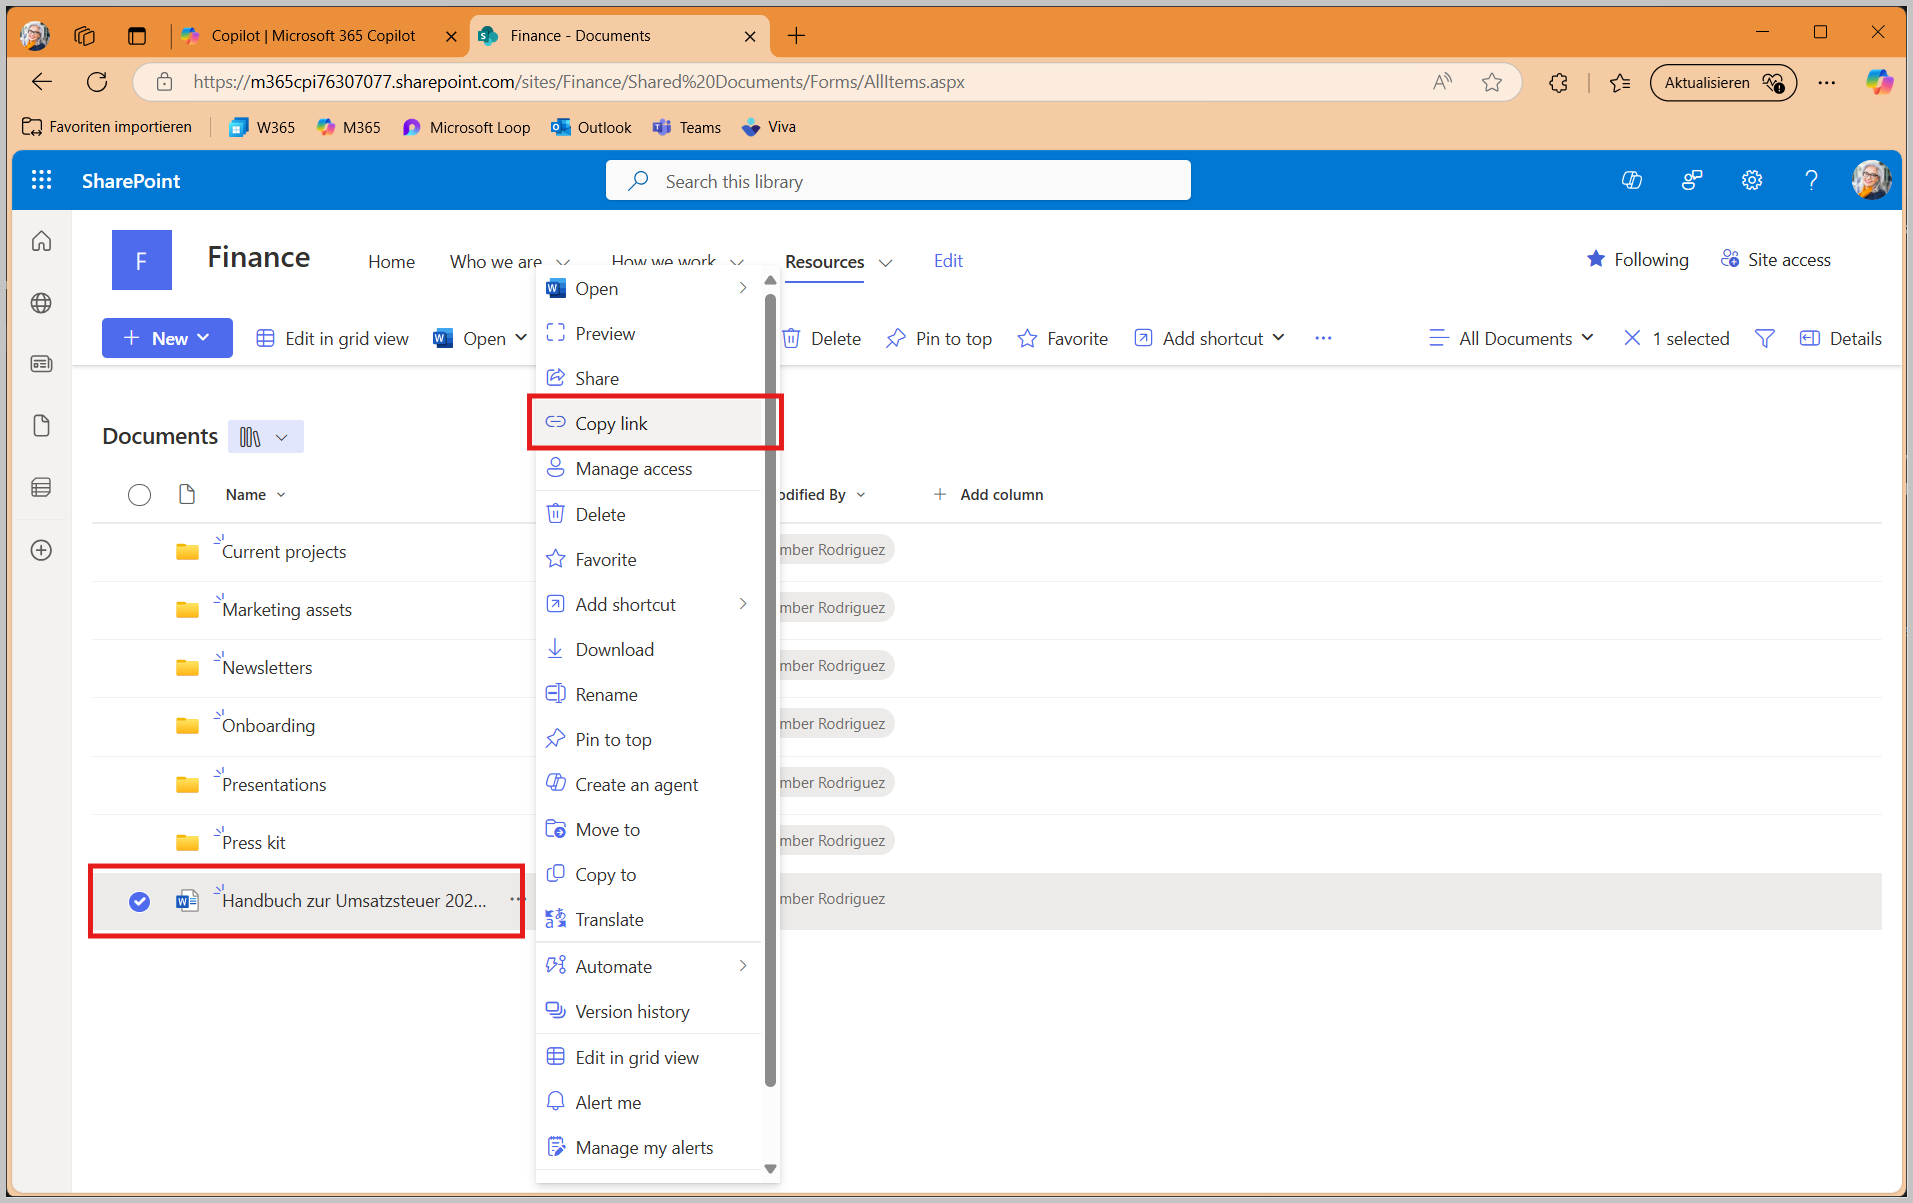
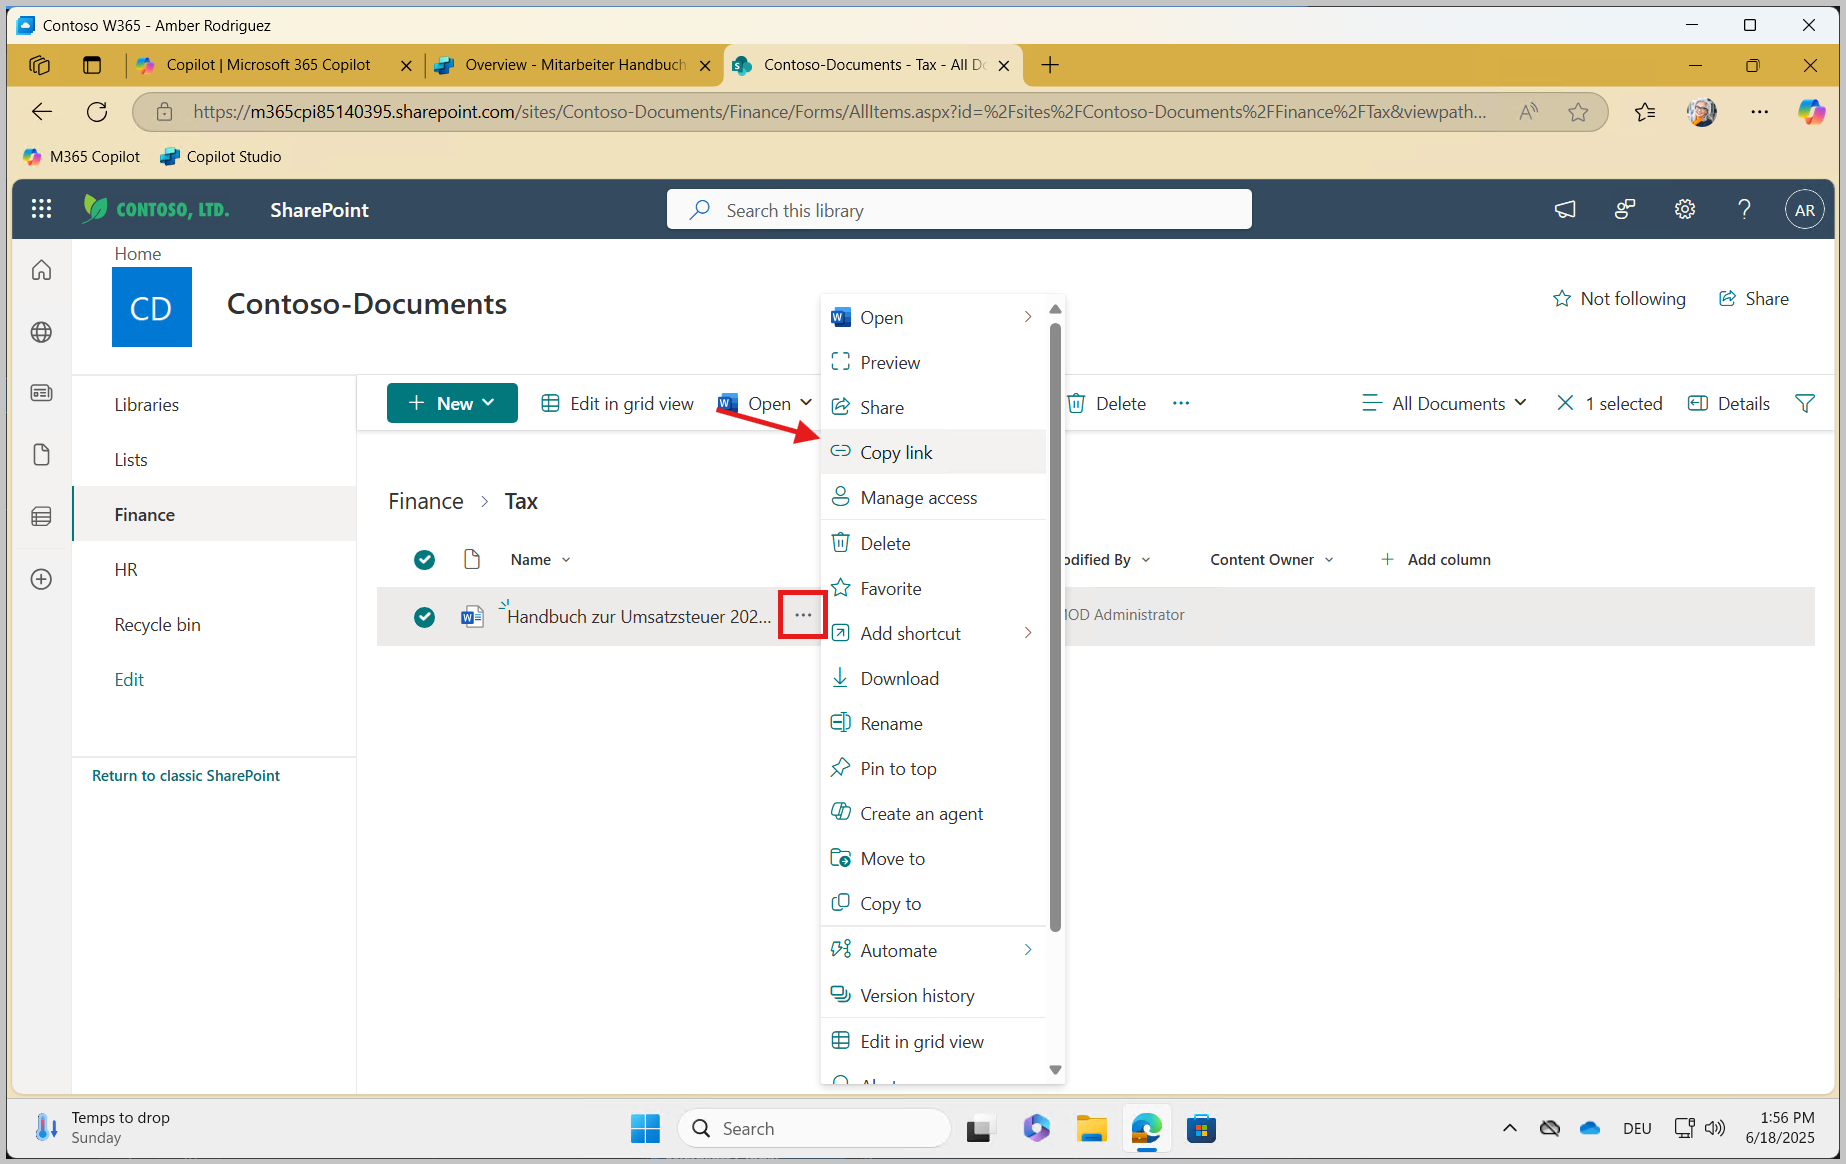
Update

diff --git a/UseCaseLibrary/Umsatzsteuer-Agent/README.md b/UseCaseLibrary/Umsatzsteuer-Agent/README.md
@@ -6,6 +6,8 @@ In the next exercise you will learn to add specific knowledge. The Agents will b
 
 ### Agent 1:
 
+This Agent will be configured using the M365 Copilot Agent Builder. Please refer to the previous exercises for the basic setup steps.
+
 **Name:** Finance Advisor - Umsatzsteuer
 
 **Description:** I'm here to help with the German Umsatzsteuer.
@@ -18,7 +20,7 @@ Create a new agent
 
 <img src="https://github.com/AndreasExner/AgentsHackathon/blob/main/UseCaseLibrary/Umsatzsteuer-Agent/142541.png?raw=true" alt="image" width="75%" height="auto">
 
-Navigate to https://m365cpi76307077.sharepoint.com/sites/Finance/Shared%20Documents/Forms/AllItems.aspx and copy the link to "Handbuch zur Umsatzsteuer 2025.docx"
+Navigate to https://m365cpi85140395.sharepoint.com/sites/Contoso-Documents/default.aspx -> Finance -> TAX and copy the link to "Handbuch zur Umsatzsteuer 2025.docx"
 
 <img src="https://github.com/AndreasExner/AgentsHackathon/blob/main/UseCaseLibrary/Umsatzsteuer-Agent/142256.png?raw=true" alt="image" width="75%" height="auto">
 
@@ -29,3 +31,5 @@ Add the knowledge to the agent:
 Optional: add starter prompts:
 
 <img src="https://github.com/AndreasExner/AgentsHackathon/blob/main/UseCaseLibrary/Umsatzsteuer-Agent/141524.png?raw=true" alt="image" width="75%" height="auto">
+
+Again, the instructions are very rudimentary. Feel free to optimize them.

diff --git a/UseCaseLibrary/Mitarbeiter-Handbuch/README.md b/UseCaseLibrary/Mitarbeiter-Handbuch/README.md
@@ -6,7 +6,9 @@ In the next exercise you will learn to add specific knowledge. The Agents will b
 
 ### Agent 2:
 
-This Agent can be created in Copilot Studio (custom engine Agent) for further use in following exercises.
+This Agent can be configured using the M365 Copilot Agent Builder. Please refer to the previous exercises for the basic setup steps.
+
+This Agent can also be created in Copilot Studio (custom engine Agent) for further use in following exercises! 
 
 **Name:** Mitarbeiter Handbuch
 
@@ -35,10 +37,12 @@ Du bist ein Assistent zur Beantwortung von Mitarbeiter Fragen bei einem großen,
 
 -- Kommuniziert auf eine einfache Weise, vermeidet Fachjargon, um Informationen für alle Mitarbeiter verständlich zu machen, unabhängig von ihrem Hintergrund oder ihrer Rolle.
 
+---
+For M365 Copilot Agent Builder, please navigate to: [https://www.microsoft365.com/chat](https://www.microsoft365.com/chat). Start with a new agent, please refer to the previous exercises for the basic setup steps. 
+---
 
-Navigate to [https://copilotstudio.microsoft.com/](https://copilotstudio.microsoft.com/).
+For Copilot Studio, please navigate to [https://copilotstudio.microsoft.com/](https://copilotstudio.microsoft.com/).
+---
 
-Create a new agent
 
 
-https://m365cpi85140395.sharepoint.com/:f:/s/HR/EoQVObHeBFFHt6o1HTdXPO0BFxla2c3scWQtCWZmmF4vig?e=WYKHIv

diff --git a/UseCaseLibrary/NameIt-Agent/README.md b/UseCaseLibrary/NameIt-Agent/README.md
@@ -4,6 +4,8 @@
 
 Let's create the first agent. Name It! will help you finding names for things in creative ways. Be sure to give it at least three skills (e.g. naming in general, a project, a top secret agent)
 
+This Agent will be configured using the M365 Copilot Agent Builder.
+
 **Name:** Name It!
 
 **Description:** I'm here to find you creative name for almost anything!
@@ -36,4 +38,4 @@ Test your agent
 
 <img src="https://github.com/AndreasExner/AgentsHackathon/blob/main/UseCaseLibrary/NameIt-Agent/161448.png?raw=true" alt="image" width="75%" height="auto">
 
-Congratulations on your first agent. Feel free to play around with the instructions to see how an answer changes. 
+Congratulations on your first agent. Feel free to play around with the instructions to see how an answer changes. Make the instruction more precise, change language / dialect.
